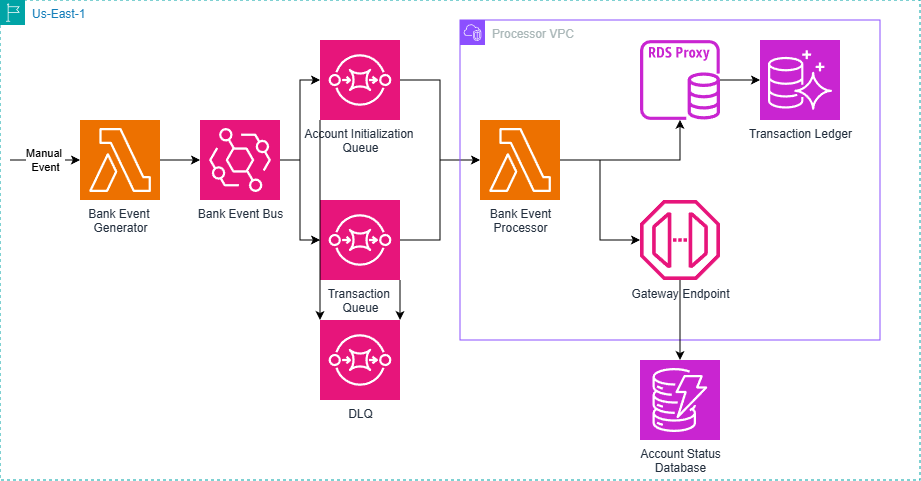
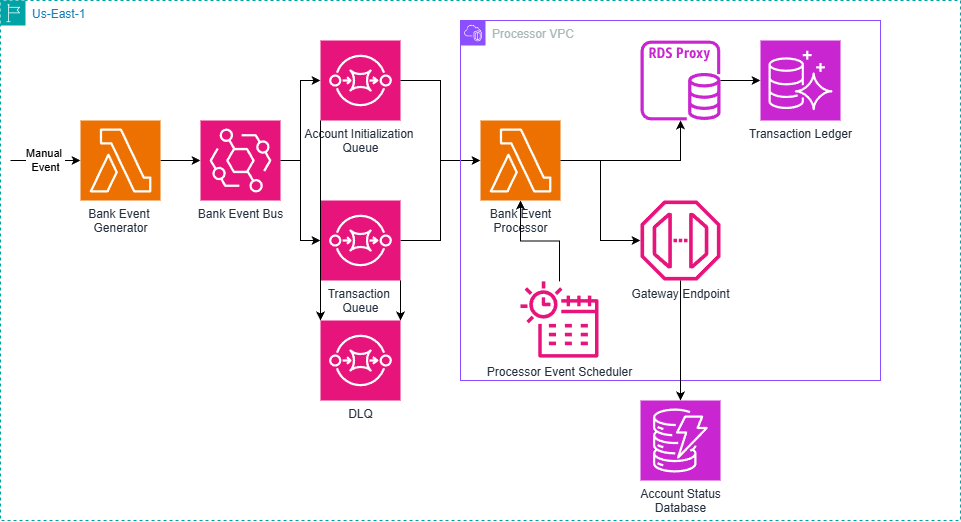
Switched to Scheduled Lambda, implemented SQS polling and deletion logic

diff --git a/BankingApp/lib/processor-stack.ts b/BankingApp/lib/processor-stack.ts
@@ -5,7 +5,8 @@ import * as rds from "aws-cdk-lib/aws-rds";
 import * as lambda from "aws-cdk-lib/aws-lambda";
 import {Duration} from "aws-cdk-lib/core";
 import * as sqs from 'aws-cdk-lib/aws-sqs'
-import * as eventsources from 'aws-cdk-lib/aws-lambda-event-sources';
+import * as scheduler from 'aws-cdk-lib/aws-scheduler';
+import * as targets from 'aws-cdk-lib/aws-scheduler-targets'
 
 interface ProcessorProps extends cdk.StackProps {
     TransactionSQS: sqs.Queue
@@ -91,18 +92,17 @@ export class BankingAppProcessorStack extends cdk.Stack {
         transactionLedgerProxy.connections.allowFrom(bankEventProcessorFunction, ec2.Port.tcp(mySqlPort))
         transactionLedgerProxy.grantConnect(bankEventProcessorFunction.role!, transactionLedgerAdminName)
 
-        bankEventProcessorFunction.addEventSource(
-            new eventsources.SqsEventSource(props!.InitializationSQS,{
-                batchSize: 1,
+        const processorTarget = new targets.LambdaInvoke(bankEventProcessorFunction, {
+            retryAttempts: 3,
+        })
 
-            })
-        )
-        bankEventProcessorFunction.addEventSource(
-            new eventsources.SqsEventSource(props!.TransactionSQS, {
-                batchSize: 1,
-            })
-        )
+        new scheduler.Schedule(this, 'ProcessorSchedule', {
+            schedule: scheduler.ScheduleExpression.rate(cdk.Duration.minutes(1)),
+            target: processorTarget
+        })
 
+        props!.TransactionSQS!.grantConsumeMessages(bankEventProcessorFunction)
+        props!.InitializationSQS.grantConsumeMessages(bankEventProcessorFunction)
 
         new cdk.CfnOutput(this, 'ClusterEndpoint', {
             value: transactionLedgerDatabase.clusterEndpoint.hostname,

diff --git a/BankingApp/bin/banking_app.ts b/BankingApp/bin/banking_app.ts
@@ -1,22 +1,17 @@
 #!/usr/bin/env node
 import * as cdk from 'aws-cdk-lib/core';
-import { BankingAppStack } from '../lib/banking_app-stack';
 import {BankingAppProcessorStack} from "../lib/processor-stack";
 import {BankingAppGeneratorStack} from "../lib/generator-stack";
 
 const app = new cdk.App();
 
-
 const generatorStack = new BankingAppGeneratorStack(app, 'BankingAppGeneratorStack')
-new BankingAppProcessorStack(app, 'BankingAppProcessorStack', {
+const processorStack = new BankingAppProcessorStack(app, 'BankingAppProcessorStack', {
     TransactionSQS: generatorStack.TransactionSQS,
     InitializationSQS: generatorStack.InitializationSQS
 })
 
-
-/*
-new BankingAppStack(app, 'BankingAppStack', {});
-*/
+processorStack.addDependency(generatorStack)
 
 /* If you don't specify 'env', this stack will be environment-agnostic.
    * Account/Region-dependent features and context lookups will not work,

diff --git a/BankingApp/bank-event-processor/main.go b/BankingApp/bank-event-processor/main.go
@@ -42,18 +42,13 @@ func init() {
 		log.Fatalf("unable to load SDK config: %v", err)
 	}
 
-	loadEnvVars()
 	SQSClient = sqs.NewFromConfig(cfg)
-}
 
-func loadEnvVars() {
 	var success bool
-
 	TransactionSQSURL, success = os.LookupEnv(TransactionSQSURLEnvVar)
 	if !success {
 		log.Fatalf("env var %s not set", TransactionSQSURLEnvVar)
 	}
-
 	InitializationSQSURL, success = os.LookupEnv(InitializationSQSURLEnvVar)
 	if !success {
 		log.Fatalf("env var %s not set", InitializationSQSURLEnvVar)
@@ -63,7 +58,93 @@ func loadEnvVars() {
 	log.Println(InitializationSQSURL)
 }
 
-func handler(ctx context.Context, event events.SQSEvent) error {
+func main() {
+	lambda.Start(scheduledHandler)
+}
+
+func scheduledHandler(ctx context.Context) error {
+	log.Println("Hello World from the Lambda!")
+
+	initializationMessages, err := getQueueMessages(ctx, InitializationSQSURL)
+	if err != nil {
+		return err
+	}
+
+	transactionMessages, err := getQueueMessages(ctx, TransactionSQSURL)
+	if err != nil {
+		return err
+	}
+
+	log.Printf("Num initialization messages: %d\n", len(initializationMessages.Messages))
+	log.Printf("Num transaction messages: %d\n", len(transactionMessages.Messages))
+
+	err = processInitializations(ctx, initializationMessages)
+	if err != nil {
+		return err
+	}
+	err = processTransactions(ctx, transactionMessages)
+	if err != nil {
+		return err
+	}
+
+	return nil
+}
+
+func getQueueMessages(ctx context.Context, queueURL string) (*sqs.ReceiveMessageOutput, error) {
+	result, err := SQSClient.ReceiveMessage(ctx, &sqs.ReceiveMessageInput{
+		QueueUrl:            &queueURL,
+		MaxNumberOfMessages: 10,
+		MessageAttributeNames: []string{
+			".*",
+		},
+		MessageSystemAttributeNames: []types.MessageSystemAttributeName{
+			types.MessageSystemAttributeNameAll,
+		},
+	})
+	if err != nil {
+		return nil, fmt.Errorf("failed to poll '%s' for messages: %v", queueURL, err)
+	}
+
+	return result, nil
+}
+
+func processInitializations(ctx context.Context, output *sqs.ReceiveMessageOutput) error {
+	log.Println("Processing initializations")
+
+	for _, nextMessage := range output.Messages {
+		log.Printf("Processing Message '%s'\n", *nextMessage.MessageId)
+
+		_, err := SQSClient.DeleteMessage(ctx, &sqs.DeleteMessageInput{
+			QueueUrl:      &InitializationSQSURL,
+			ReceiptHandle: nextMessage.ReceiptHandle,
+		})
+		if err != nil {
+			return fmt.Errorf("failed to delete message '%s' from '%s': %v", *nextMessage.ReceiptHandle, InitializationSQSURL, err)
+		}
+	}
+
+	return nil
+}
+
+func processTransactions(ctx context.Context, output *sqs.ReceiveMessageOutput) error {
+	log.Println("Processing transactions")
+
+	for _, nextMessage := range output.Messages {
+		log.Printf("Processing Message '%s'\n", *nextMessage.MessageId)
+
+		_, err := SQSClient.DeleteMessage(ctx, &sqs.DeleteMessageInput{
+			QueueUrl:      &TransactionSQSURL,
+			ReceiptHandle: nextMessage.ReceiptHandle,
+		})
+		if err != nil {
+			return fmt.Errorf("failed to delete message '%s' from '%s': %v", *nextMessage.ReceiptHandle, InitializationSQSURL, err)
+		}
+	}
+
+	return nil
+}
+
+func SQLStatements(ctx context.Context, event events.SQSEvent) error {
 
 	_ = `
 		CREATE TABLE IF NOT EXISTS ledger(
@@ -81,27 +162,7 @@ func handler(ctx context.Context, event events.SQSEvent) error {
 	return nil
 }
 
-func testingSQS(ctx context.Context, event json.RawMessage) error {
-
-	input := &sqs.GetQueueAttributesInput{
-		QueueUrl: &TransactionSQSURL,
-		AttributeNames: []types.QueueAttributeName{
-			types.QueueAttributeNameApproximateNumberOfMessages,
-		},
-	}
-
-	result, err := SQSClient.GetQueueAttributes(ctx, input)
-	if err != nil {
-		log.Printf("Failed to get queue attributes: %v", err)
-		return nil
-	}
-
-	log.Printf("ApproximateNumberOfMessages: %s\n", result.Attributes[string(types.QueueAttributeNameApproximateNumberOfMessages)])
-
-	return nil
-}
-
-func testingHandler(ctx context.Context, event json.RawMessage) error {
+func proxyTesting(ctx context.Context, event json.RawMessage) error {
 	log.Println("Hello World from the Lambda!")
 
 	proxyEndpoint := os.Getenv("PROXY_ENDPOINT")
@@ -159,11 +220,5 @@ func testingHandler(ctx context.Context, event json.RawMessage) error {
 		return fmt.Errorf("failed to create ledger table: %w", err)
 	}
 
-	//result.RowsAffected()
-
 	return nil
-}
-
-func main() {
-	lambda.Start(testingSQS)
 }
